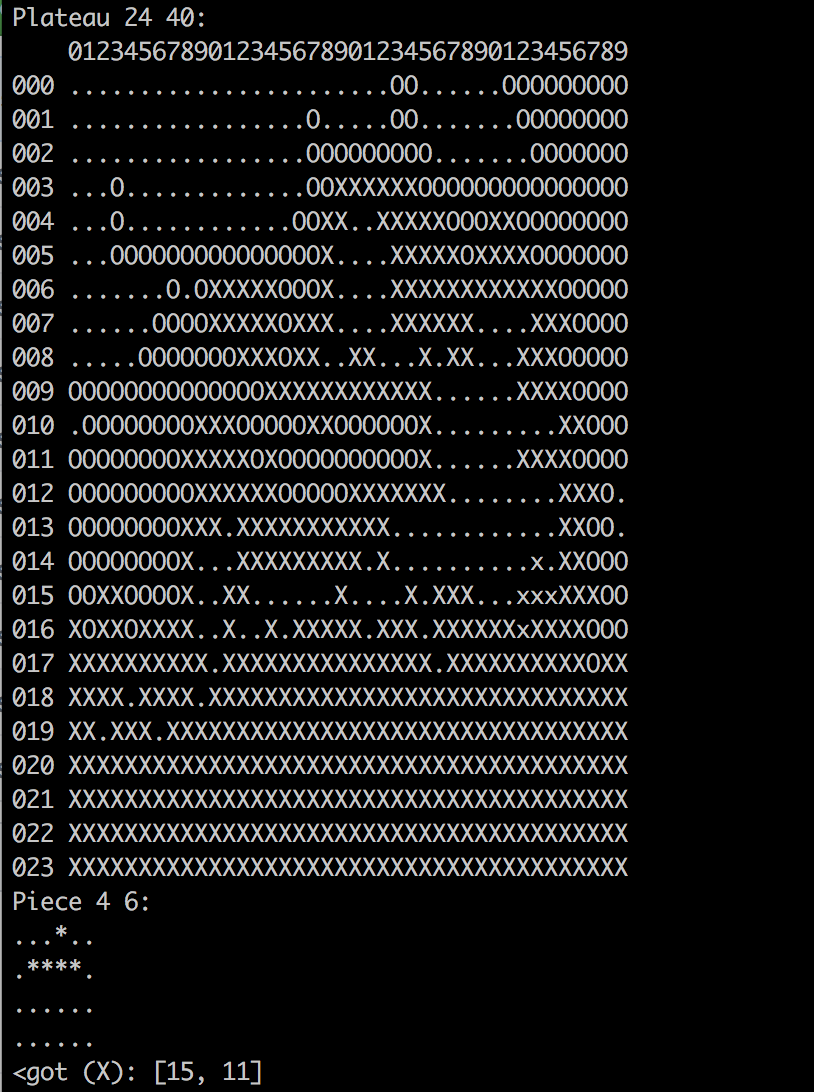
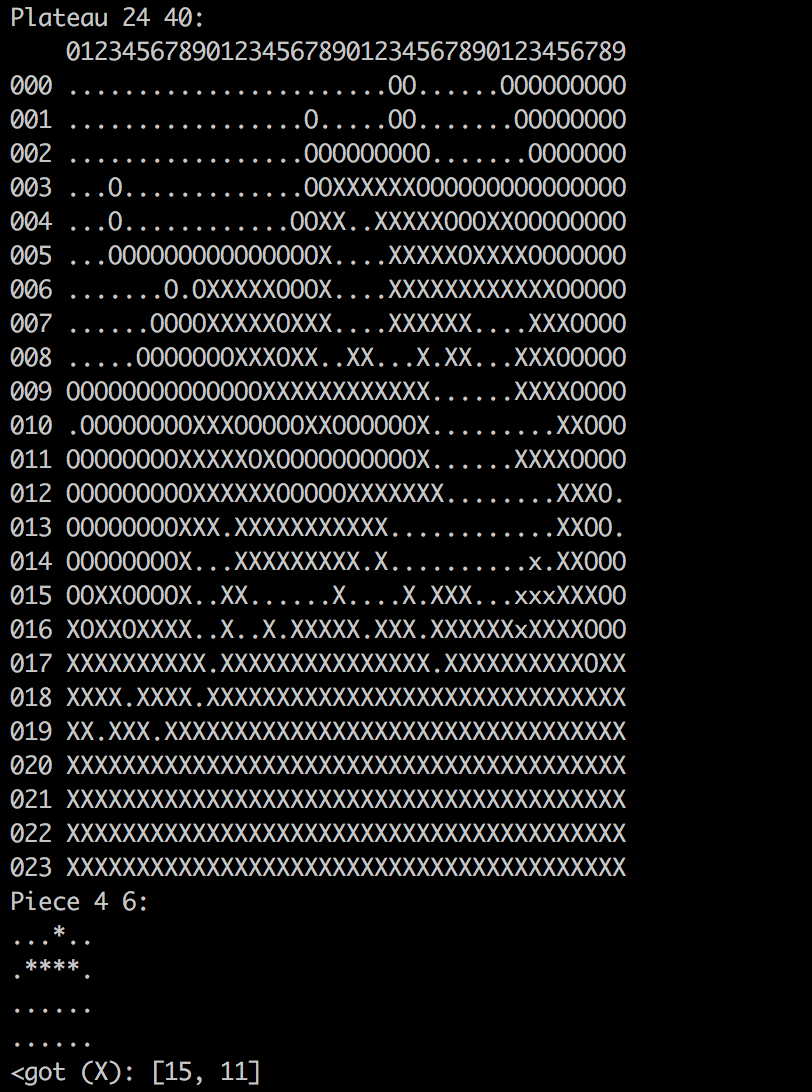
Updated README, cropped image, and added navigation message to visualizer

Changed region(s): [[0.0, 0.0, 0.7697, 0.9963], [0.2771, 0.9652, 0.3387, 0.9963], [0.1847, 0.9652, 0.2463, 0.9963]]

diff --git a/visu.py b/visu.py
@@ -286,6 +286,16 @@ class Game:
         pygame.display.update()
 
     def run(self):
+        print("""Navigation:
+right: move game forward
+left: move game backward
+up or +: increment number of steps forward or backward
+down or -: decrement number of steps forward or backward
+r: reset steps taken
+home: go to beginning of game
+end: go to end of game
+0-9 + enter: set number of steps to some integer
+escape or q: quit""")
         self.playing = True
         while self.playing:
             self.clock.tick(self.fps)

diff --git a/README.md b/README.md
@@ -14,9 +14,13 @@ This will result in a .filler file which can be run in the vm
 
 Built with ruby
 
+Maps and precompiled players are in resources/players and resources/maps respectively
+
+Players may not work properly on systems not running macOS High Sierra
+
 ```bash
 cd resources
-./filler_vm -f maps/map01 -p1 players/abanlin.filler -p2 players/hcao.filler
+./filler_vm -f maps/map00 -p1 players/abanlin.filler -p2 players/hcao.filler
 ```
 
 ![vm screenshot](assets/vm_screenshot.png)
@@ -30,8 +34,6 @@ Player reads from stdin and echoes move to stdout
 Built with python3
 
 visu.py reads from stdin and opens a window in which to step through the game
-
-![visualizer screenshot](assets/visu_screenshot.png)
 
 Dependencies:
 * [pygame](https://www.pygame.org/news)
@@ -52,3 +54,5 @@ Navigation:
 * end: go to end of game
 
 * Type a number and press enter to set the current pace to n moves per key press
+
+![visualizer screenshot](assets/visu_screenshot.png)
